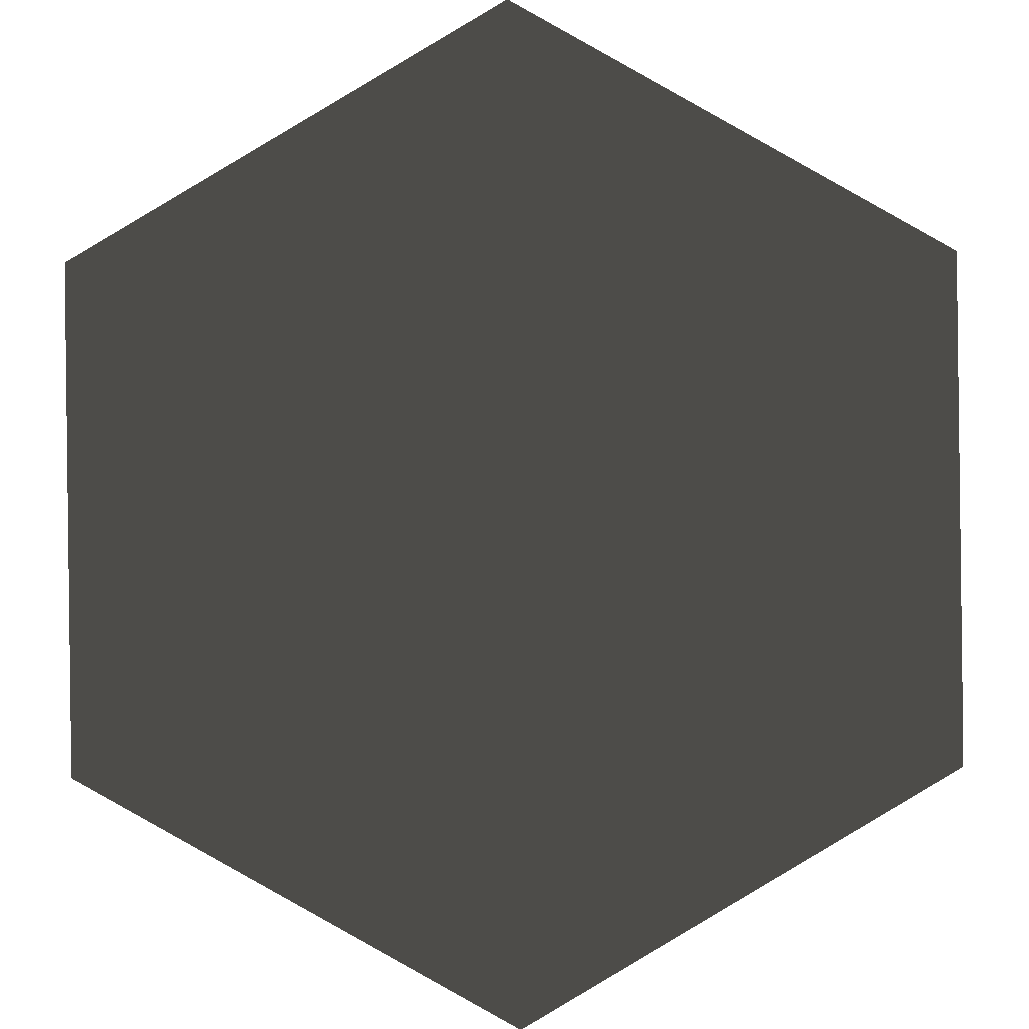
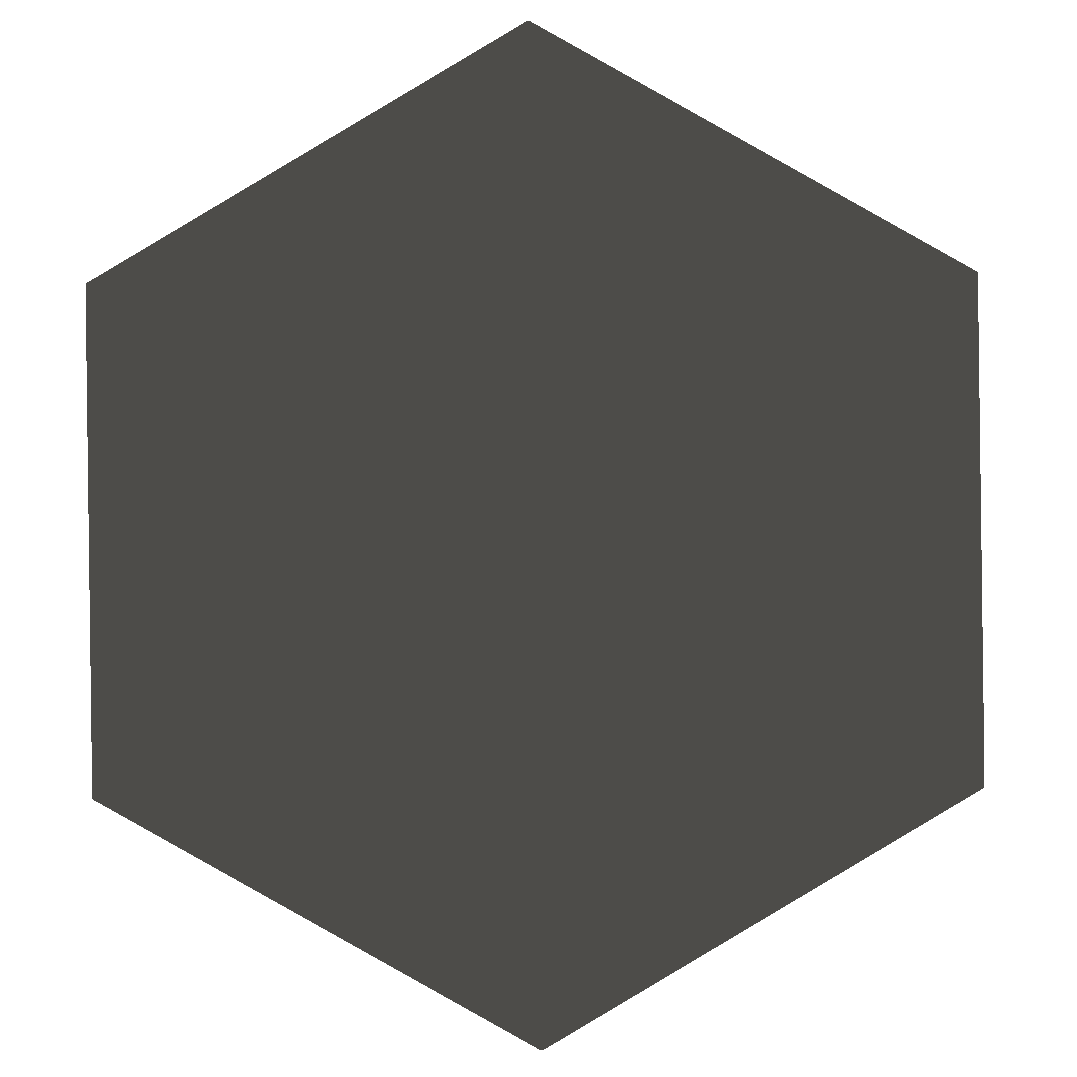
Get rid of MASK_PADDING and RIBBON_POS; assume mask, ribbon are same size.

Changed region(s): [[0.0622, 0.0, 0.9329, 1.0]]

diff --git a/chibadge/chibadge.js b/chibadge/chibadge.js
@@ -8,15 +8,8 @@ var Chibadge = (function() {
     // The URL of the hex mask for the badge, relative to the chibadge dir.
     MASK_URL: 'hex-mask.png',
 
-    // The amount of vertical and horizontal padding for the mask on the
-    // badge image, at the badge's native size (when it's not being scaled).
-    MASK_PADDING: 21,
-
     // The URL of the ribbon for the badge, relative to the chibadge dir.
     RIBBON_URL: 'ribbon.png',
-
-    // The placement of the ribbon on the badge, at the badge's native size.
-    RIBBON_POS: {x: 0, y: 600},
 
     // ## Chibadge.baseUrl
     //
@@ -91,20 +84,17 @@ var Chibadge = (function() {
       ], function(err) {
         if (err) return cb(err);
 
-        var NATIVE_BADGE_SIZE = hexMask.height() + (this.MASK_PADDING*2);
+        var NATIVE_BADGE_SIZE = hexMask.height();
         var FULL_WIDTH = options.size || NATIVE_BADGE_SIZE;
         var FULL_HEIGHT = FULL_WIDTH;
         var SCALE_FACTOR = FULL_WIDTH / NATIVE_BADGE_SIZE;
-        var MASK_PADDING = this.MASK_PADDING * SCALE_FACTOR;
-        var RIBBON_X = this.RIBBON_POS.x * SCALE_FACTOR;
-        var RIBBON_Y = this.RIBBON_POS.y * SCALE_FACTOR;
 
         canvas.width = FULL_WIDTH;
         canvas.height = FULL_HEIGHT;
 
         var ctx = canvas.getContext('2d');
 
-        ctx.drawImage(hexMask.source, MASK_PADDING, MASK_PADDING,
+        ctx.drawImage(hexMask.source, 0, 0,
                       hexMask.width() * SCALE_FACTOR,
                       hexMask.height() * SCALE_FACTOR);
         ctx.globalCompositeOperation = "source-in";
@@ -139,7 +129,7 @@ var Chibadge = (function() {
         }
 
         ctx.globalCompositeOperation = "source-over";
-        ctx.drawImage(ribbon.source, RIBBON_X, RIBBON_Y,
+        ctx.drawImage(ribbon.source, 0, 0,
                       ribbon.width() * SCALE_FACTOR,
                       ribbon.height() * SCALE_FACTOR);
 
